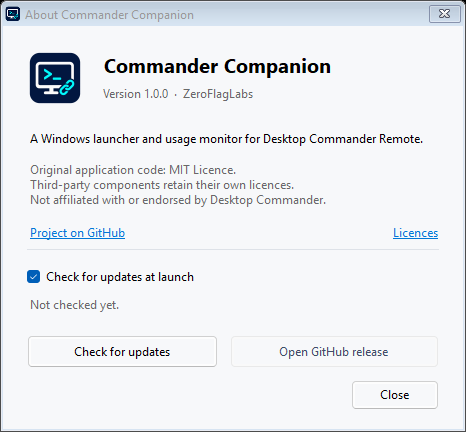
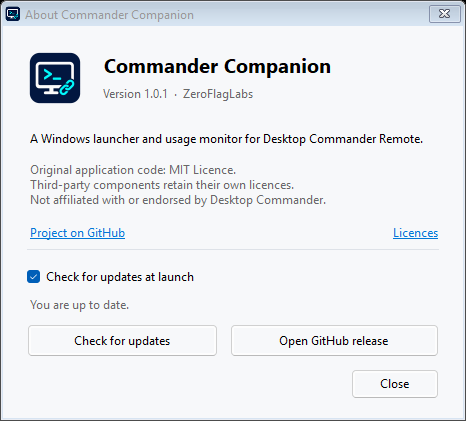
Fix update checks, keep release links available and tidy About notices

diff --git a/tests/Remote_Desktop_Commander_Launcher.PackageSmoke.cs b/tests/Remote_Desktop_Commander_Launcher.PackageSmoke.cs
@@ -3,6 +3,7 @@ using System.Drawing;
 using System.Globalization;
 using System.IO;
 using System.Reflection;
+using System.Runtime.InteropServices;
 using System.Threading.Tasks;
 using System.Windows.Forms;
 
@@ -35,7 +36,8 @@ internal static class PackageSmoke
                         await task;
                         object snapshot = task.GetType().GetProperty("Result").GetValue(task, null);
                         string state = snapshot.GetType().GetField("State", Instance).GetValue(snapshot).ToString();
-                        if (state != "SignedOut") throw new Exception("Fresh account profile returned " + state + ".");
+                        if (state != "SignedOut") throw new Exception("Fresh account profile returned " + state + ": " +
+                            accountType.GetField("Diagnostic", Instance).GetValue(account));
                         Console.WriteLine("PASS: bundled WebView2 opens the official account website with a fresh, signed-out profile.");
                     }
                     Render(app, output);
@@ -87,11 +89,31 @@ internal static class PackageSmoke
             var updates = type.GetField("updates", Instance).GetValue(window);
             Type aboutType = app.GetType("AboutWindow");
             using (var about = (Form)Activator.CreateInstance(aboutType, Instance, null,
-                new[] { updates }, CultureInfo.InvariantCulture)) Save(about, Path.Combine(output, "about.png"));
+                new[] { updates }, CultureInfo.InvariantCulture)) {
+                foreach (string message in new[] { "You are up to date.",
+                    "This is a deliberately long update status message that wraps to a second line to verify the spacing between the status, update buttons and Close." }) {
+                    object info = app.GetType("ReleaseInfo").GetMethod("Message", Static).Invoke(null, new object[] { message });
+                    updates.GetType().GetProperty("Result", Instance).SetValue(updates, info, null);
+                    aboutType.GetMethod("RefreshUpdateStatus", Instance).Invoke(about, null);
+                    var status = (Control)aboutType.GetField("updateStatus", Instance).GetValue(about);
+                    var button = (Control)aboutType.GetField("check", Instance).GetValue(about);
+                    var close = (Control)aboutType.GetField("close", Instance).GetValue(about);
+                    var open = (Control)aboutType.GetField("download", Instance).GetValue(about);
+                    if (button.Top - status.Bottom != close.Top - button.Bottom || !open.Enabled)
+                        throw new Exception("Update controls have unequal vertical gaps or the release link is disabled.");
+                }
+                object ready = app.GetType("ReleaseInfo").GetMethod("Message", Static).Invoke(null, new object[] { "You are up to date." });
+                updates.GetType().GetProperty("Result", Instance).SetValue(updates, ready, null);
+                aboutType.GetMethod("RefreshUpdateStatus", Instance).Invoke(about, null);
+                Save(about, Path.Combine(output, "about.png"));
+            }
             using (var licences = (Form)Activator.CreateInstance(app.GetType("LicenceWindow"), true)) {
-                var text = (TextBox)licences.Controls[0];
+                var text = (TextBoxBase)licences.Controls[0];
                 if (!text.Text.Contains("Microsoft Corporation") || !text.Text.Contains("MIT License"))
                     throw new Exception("Embedded licence notices are incomplete.");
+                if (text.Text.Contains("# Third-party components") || text.Text.Contains("**1.0.4370.26**"))
+                    throw new Exception("Markdown formatting leaked into the native licence viewer.");
+                Save(licences, Path.Combine(output, "licences.png"));
             }
             ((IDisposable)updates).Dispose();
         }
@@ -114,10 +136,39 @@ internal static class PackageSmoke
             if (control.Width < 1 || control.Height < 1) continue;
             var point = new Point(origin.X + control.Left, origin.Y + control.Top);
             using (var image = new Bitmap(control.Width, control.Height)) {
-                control.DrawToBitmap(image, new Rectangle(Point.Empty, image.Size));
+                var rich = control as RichTextBox;
+                if (rich != null) PrintRichText(rich, image);
+                else control.DrawToBitmap(image, new Rectangle(Point.Empty, image.Size));
                 graphics.DrawImageUnscaled(image, point);
             }
             DrawChildren(control, graphics, point);
+        }
+    }
+
+    // RichTextBox does not implement DrawToBitmap; use its native print path.
+    [StructLayout(LayoutKind.Sequential)]
+    private struct NativeRectangle { internal int Left, Top, Right, Bottom; }
+    [StructLayout(LayoutKind.Sequential)]
+    private struct CharacterRange { internal int First, Last; }
+    [StructLayout(LayoutKind.Sequential)]
+    private struct FormatRange { internal IntPtr Device, Target; internal NativeRectangle Area, Page; internal CharacterRange Text; }
+    [DllImport("user32.dll", EntryPoint = "SendMessageW")]
+    private static extern IntPtr PrintMessage(IntPtr window, int message, IntPtr parameter, ref FormatRange range);
+    [DllImport("user32.dll", EntryPoint = "SendMessageW")]
+    private static extern IntPtr ClearPrintCache(IntPtr window, int message, IntPtr parameter, IntPtr range);
+    private static void PrintRichText(RichTextBox text, Bitmap image)
+    {
+        using (var graphics = Graphics.FromImage(image)) {
+            graphics.Clear(Color.White);
+            var area = new NativeRectangle { Right = (int)(image.Width * 1440F / graphics.DpiX), Bottom = (int)(image.Height * 1440F / graphics.DpiY) };
+            IntPtr device = graphics.GetHdc();
+            try {
+                var range = new FormatRange { Device = device, Target = device, Area = area, Page = area,
+                    Text = new CharacterRange { First = 0, Last = -1 } };
+                PrintMessage(text.Handle, 0x0439, new IntPtr(1), ref range);
+                ClearPrintCache(text.Handle, 0x0439, IntPtr.Zero, IntPtr.Zero);
+            }
+            finally { graphics.ReleaseHdc(device); }
         }
     }
 }

diff --git a/src/App/Remote_Desktop_Commander_Launcher.AboutWindow.cs b/src/App/Remote_Desktop_Commander_Launcher.AboutWindow.cs
@@ -9,8 +9,10 @@ internal sealed class AboutWindow : Form
     private readonly ReleaseChecker updates;
     private readonly Label updateStatus = new Label();
     private readonly Button check = new Button(), download = new Button();
+    private readonly Button close;
     private readonly CheckBox checkOnLaunch = new CheckBox();
     private bool loading;
+    private bool arrangingUpdates;
 
     internal AboutWindow(ReleaseChecker checker)
     {
@@ -65,7 +67,9 @@ internal sealed class AboutWindow : Form
                 MessageBox.Show(this, "The update preference could not be saved.", Text, MessageBoxButtons.OK, MessageBoxIcon.Information);
             }
         };
-        updateStatus.SetBounds(24, 271, 412, 32);
+        updateStatus.AutoSize = true;
+        updateStatus.MaximumSize = new Size(412, 0);
+        updateStatus.Location = new Point(24, 271);
         updateStatus.ForeColor = Color.DimGray;
         updateStatus.AccessibleName = "Update check status";
         check.Text = "Check for updates";
@@ -73,8 +77,8 @@ internal sealed class AboutWindow : Form
         check.Click += async delegate { await updates.CheckAsync(); };
         download.Text = "Open GitHub release";
         download.SetBounds(227, 309, 209, 33);
-        download.Click += delegate { if (updates.Result.UpdateAvailable) OpenLink(this, updates.Result.Url); };
-        var close = new Button { Text = "Close", DialogResult = DialogResult.Cancel, Bounds = new Rectangle(348, 354, 88, 30) };
+        download.Click += delegate { OpenLink(this, AppInfo.ReleasesUrl); };
+        close = new Button { Text = "Close", DialogResult = DialogResult.Cancel, Bounds = new Rectangle(348, 354, 88, 30) };
         CancelButton = close;
         Controls.AddRange(new Control[] { picture, heading, version, description, credits, project, licences, rule,
             checkOnLaunch, updateStatus, check, download, close });
@@ -88,7 +92,27 @@ internal sealed class AboutWindow : Form
     {
         updateStatus.Text = updates.Result.Status;
         check.Enabled = !updates.Checking;
-        download.Enabled = !updates.Checking && updates.Result.UpdateAvailable;
+        ArrangeUpdateControls();
+    }
+
+    protected override void OnLayout(LayoutEventArgs e)
+    {
+        base.OnLayout(e);
+        ArrangeUpdateControls();
+    }
+
+    private void ArrangeUpdateControls()
+    {
+        if (arrangingUpdates || close == null || check.Parent == null) return;
+        arrangingUpdates = true;
+        try {
+            int gap = (int)System.Math.Round(12 * DeviceDpi / 96F);
+            updateStatus.MaximumSize = new Size(ClientSize.Width - 2 * updateStatus.Left, 0);
+            check.Top = download.Top = updateStatus.Bottom + gap;
+            close.Top = check.Bottom + gap;
+            ClientSize = new Size(ClientSize.Width, close.Bottom + (int)System.Math.Round(19 * DeviceDpi / 96F));
+        }
+        finally { arrangingUpdates = false; }
     }
 
     private static void OpenLink(IWin32Window owner, string url)

diff --git a/src/App/Remote_Desktop_Commander_Launcher.ReleaseChecker.cs b/src/App/Remote_Desktop_Commander_Launcher.ReleaseChecker.cs
@@ -1,12 +1,14 @@
 using System;
 using System.IO;
 using System.Net;
+using System.Net.Cache;
 using System.Text;
 using System.Threading;
 using System.Threading.Tasks;
 using Microsoft.Win32;
 
-// Checks public stable-release metadata only. It never downloads or installs software.
+// Reads our small public version file, avoiding GitHub REST API quotas shared
+// across apps on the same internet connection. Never downloads/installs software.
 internal sealed class ReleaseChecker : IDisposable
 {
     private const string PreferencesKey = @"Software\ZeroFlagLabs\CommanderCompanion";
@@ -61,10 +63,10 @@ internal sealed class ReleaseChecker : IDisposable
     {
         token.ThrowIfCancellationRequested();
         ServicePointManager.SecurityProtocol |= SecurityProtocolType.Tls12;
-        var request = (HttpWebRequest)WebRequest.Create(AppInfo.ReleaseApiUrl);
+        var request = (HttpWebRequest)WebRequest.Create(AppInfo.VersionManifestUrl);
         request.UserAgent = "ZeroFlagLabs-CommanderCompanion/" + AppInfo.VersionText;
-        request.Accept = "application/vnd.github+json";
-        request.Headers["X-GitHub-Api-Version"] = "2022-11-28";
+        request.Accept = "application/json";
+        request.CachePolicy = new RequestCachePolicy(RequestCacheLevel.NoCacheNoStore);
         request.AllowAutoRedirect = false;
         request.Timeout = 7000;
         request.ReadWriteTimeout = 7000;
@@ -87,9 +89,9 @@ internal sealed class ReleaseChecker : IDisposable
         catch (WebException error) {
             using (var response = error.Response as HttpWebResponse) {
                 if (response != null && response.StatusCode == HttpStatusCode.NotFound)
-                    return ReleaseInfo.Message("No published GitHub release available yet.");
+                    return ReleaseInfo.Message("Update information is unavailable. You can still open the release page.");
                 if (response != null && ((int)response.StatusCode == 403 || (int)response.StatusCode == 429))
-                    return ReleaseInfo.Message("GitHub could not complete the check. Please try again later.");
+                    return ReleaseInfo.Message("The version file is temporarily unavailable. Please try again later.");
             }
             return Unavailable();
         }

diff --git a/src/App/Remote_Desktop_Commander_Launcher.LicenceWindow.cs b/src/App/Remote_Desktop_Commander_Launcher.LicenceWindow.cs
@@ -1,3 +1,5 @@
+using System;
+using System.Diagnostics;
 using System.Drawing;
 using System.IO;
 using System.Windows.Forms;
@@ -15,9 +17,25 @@ internal sealed class LicenceWindow : Form
         MinimumSize = new Size(480, 320);
         StartPosition = FormStartPosition.CenterParent;
         ShowInTaskbar = false;
-        var text = new TextBox { Multiline = true, ReadOnly = true, WordWrap = true,
-            ScrollBars = ScrollBars.Vertical, Dock = DockStyle.Fill, BackColor = Color.White,
+        Padding = new Padding(12, 12, 12, 0);
+        var text = new RichTextBox { ReadOnly = true, WordWrap = true, BorderStyle = BorderStyle.None,
+            ScrollBars = RichTextBoxScrollBars.Vertical, Dock = DockStyle.Fill, BackColor = Color.White,
+            Font = new Font("Segoe UI", 9.5F), DetectUrls = true,
             Text = File.ReadAllText(Path.Combine(AppAssets.CacheRoot, "licences", "Notices.txt")) };
+        using (var heading = new Font("Segoe UI", 11F, FontStyle.Bold))
+            foreach (string title in new[] { "Commander Companion — application licence", "Bundled components",
+                "Microsoft WebView2 SDK — licence", "Microsoft WebView2 SDK — third-party notices" }) {
+                int position = text.Find(title, RichTextBoxFinds.MatchCase);
+                if (position >= 0) { text.SelectionFont = heading; text.SelectionColor = Color.FromArgb(30, 38, 51); }
+            }
+        text.Select(0, 0);
+        text.ScrollToCaret();
+        text.LinkClicked += delegate(object sender, LinkClickedEventArgs e) {
+            Uri uri;
+            if (!Uri.TryCreate(e.LinkText, UriKind.Absolute, out uri) || uri.Scheme != Uri.UriSchemeHttps) return;
+            try { Process.Start(new ProcessStartInfo(uri.AbsoluteUri) { UseShellExecute = true }); }
+            catch (Exception) { MessageBox.Show(this, "The website could not be opened.", Text, MessageBoxButtons.OK, MessageBoxIcon.Information); }
+        };
         var close = new Button { Text = "Close", DialogResult = DialogResult.Cancel, Dock = DockStyle.Right, Width = 88 };
         var footer = new Panel { Dock = DockStyle.Bottom, Height = 46, Padding = new Padding(8) };
         footer.Controls.Add(close);

diff --git a/src/App/Remote_Desktop_Commander_Launcher.AppInfo.cs b/src/App/Remote_Desktop_Commander_Launcher.AppInfo.cs
@@ -6,7 +6,7 @@ internal static class AppInfo
     internal const string Repository = "ZeroFlagLabs/commander-companion";
     internal const string ProjectUrl = "https://github.com/" + Repository;
     internal const string ReleasesUrl = ProjectUrl + "/releases/latest";
-    internal const string ReleaseApiUrl = "https://api.github.com/repos/" + Repository + "/releases/latest";
+    internal const string VersionManifestUrl = "https://raw.githubusercontent.com/" + Repository + "/main/updates/latest.json";
     internal static Version Version { get { return typeof(AppInfo).Assembly.GetName().Version; } }
     internal static string VersionText { get { return Version.ToString(3); } }
 }

diff --git a/src/Remote_Desktop_Commander_Launcher.AssemblyInfo.cs b/src/Remote_Desktop_Commander_Launcher.AssemblyInfo.cs
@@ -1,7 +1,7 @@
 using System.Reflection;
 [assembly: AssemblyTitle("Commander Companion")]
 [assembly: AssemblyDescription("Unofficial Windows launcher and usage monitor for Desktop Commander Remote")]
-[assembly: AssemblyVersion("1.0.0.0")]
-[assembly: AssemblyFileVersion("1.0.0.0")]
+[assembly: AssemblyVersion("1.0.1.0")]
+[assembly: AssemblyFileVersion("1.0.1.0")]
 [assembly: AssemblyCompany("ZeroFlagLabs")]
 [assembly: AssemblyProduct("Commander Companion")]

diff --git a/README.md b/README.md
@@ -48,7 +48,7 @@ Pin the EXE to your taskbar if wanted. The title bar supports minimise, with max
 
 ## About and updates
 
-The **ⓘ** button opens version information, credits, embedded licence notices and GitHub updates. **Check for updates at launch** is a saved option, enabled initially. Checks read public stable-release metadata without a GitHub login. A newer version enables **Open GitHub release** in your browser. Nothing is downloaded or installed automatically.
+The **ⓘ** button opens version information, credits, readable embedded licence notices and GitHub updates. **Check for updates at launch** is a saved option, enabled initially. Checks read this project's small public `updates/latest.json` file without a GitHub login or the shared GitHub REST API allowance. **Open GitHub release** always opens the latest release page, including when a check fails or your version is current. Nothing is downloaded or installed automatically. The status-to-button and button-to-Close spacing stays equal even when a message wraps.
 
 <img src="docs/images/about.png" alt="Compact About and updates window" width="466">
 
@@ -90,7 +90,7 @@ docs/images/    Illustrative screenshots
 preview/        Optional sample-data UI preview source
 ```
 
-Source filenames retain the development prefix `Remote_Desktop_Commander_Launcher`. Product identity and the repository are centralised in `src/App/Remote_Desktop_Commander_Launcher.AppInfo.cs`. Assembly and manifest versions are **1.0.0**. Release tags use `vMAJOR.MINOR.PATCH`.
+Source filenames retain the development prefix `Remote_Desktop_Commander_Launcher`. Product identity and the repository are centralised in `src/App/Remote_Desktop_Commander_Launcher.AppInfo.cs`. Assembly and manifest versions are **1.0.1**. Release tags use `vMAJOR.MINOR.PATCH`.
 
 Run `build.cmd -VerifyHashes` to verify source, assets, documentation and included SDK files against `SHA256SUMS.txt`. Build outputs, temporary files and Git metadata are excluded. Use `-HashesOnly` after intentional changes without compiling. The downloadable EXE's separate checksum is on its release page. Checksums are not digital signatures.
 

diff --git a/docs/DEVELOPMENT.md b/docs/DEVELOPMENT.md
@@ -26,6 +26,8 @@ An explicit `--check-usage <absolute-report-path>` diagnostic checks the normal 
 
 The internal Windows Run value `RemoteDesktopCommander` and private WebView2 profile `ZeroFlagLabs/RemoteDesktopCommanderLauncher/AccountBrowser` retain their development names for compatibility. Update preferences use `HKCU/Software/ZeroFlagLabs/CommanderCompanion`.
 
-The update checker uses public stable-release metadata for `ZeroFlagLabs/commander-companion`, has a timeout and ignores drafts/prereleases. The download link always points to this repository. A missing release, failed request or rate limit must never be reported as an up-to-date result. No automatic software download or installation is implemented.
+The update checker reads `updates/latest.json` from this repository through raw.githubusercontent.com, avoiding the anonymous GitHub REST API allowance shared by apps behind one internet connection. The manifest uses `tag_name`, `draft` and `prerelease`; invalid entries and non-stable versions are rejected. Update this file only after the corresponding stable GitHub release is public, so an unpublished build is never offered as an update. The release-page button remains available independently of the version check. A failed request is never reported as an up-to-date result. No automatic software download or installation is implemented.
+
+The native licence viewer uses readable headings and plain overview text, while retaining the supplied legal licence texts verbatim. Package integration checks also verify that no Markdown styling leaks into that viewer and that short/wrapped update statuses have equal vertical gaps above and below the action buttons.
 
 Before publishing: run the data tests and source hash verification, check the standalone copy and account states, inspect screenshots for clipping, audit source and binary for personal data, confirm licence notices are embedded, and record the exact EXE SHA-256 in the release notes. No browser profile, logs, tokens, previous builds or personal diagnostics belong in the repository.

diff --git a/docs/RELEASE_NOTES_v1.0.1.md b/docs/RELEASE_NOTES_v1.0.1.md
@@ -1,0 +1,18 @@
+# Commander Companion v1.0.1
+
+Fixes the update-check failure caused by GitHub's anonymous REST API allowance being shared across apps on the same internet connection.
+
+- Update checks now read a small public version file instead of the GitHub REST API. No GitHub login or token is required.
+- **Open GitHub release** remains available even if a version check fails or the installed version is current.
+- The About window keeps equal vertical spacing above and below the update buttons, including when the status message wraps.
+- The licence viewer has readable headings and a plain overview, while preserving the supplied legal texts verbatim. Markdown styling no longer leaks into the display.
+
+The live monthly usage panel, connection controls and single-EXE packaging are unchanged. Download `CommanderCompanion.exe`, close the existing launcher/terminal windows and replace the EXE; the independent agent can remain connected. Your saved sign-in and Windows startup preference are retained when the path stays the same.
+
+Verified with the data tests, off-screen short/wrapped status layout checks, the native licence print path and an isolated account-profile integration check. The EXE is unsigned and uses standard Windows 11 runtime components.
+
+## SHA-256 — CommanderCompanion.exe
+
+```text
[1 lines of base64/hex data omitted]
+```
